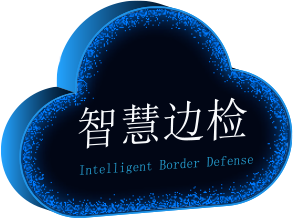
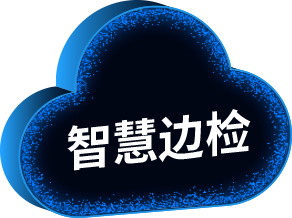
+china-tower branch

diff --git a/src/components/logo.vue b/src/components/logo.vue
@@ -10,9 +10,9 @@ export default {
 
 <style scoped type="text/less" lang="less">
 .logo {
-    width: 414px;
-    height: 43px;
-    background: url("../assets/logo-bottom.png") no-repeat;
+    width: 238px;
+    height: 93px;
+    background: url("../assets/logo-tower.png") no-repeat;
     background-size: 100% 100%;
 }
 </style>
